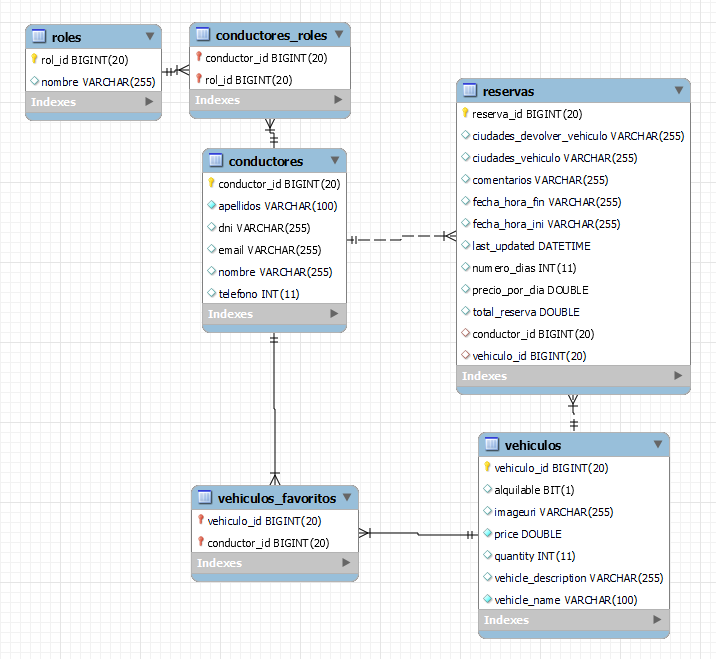
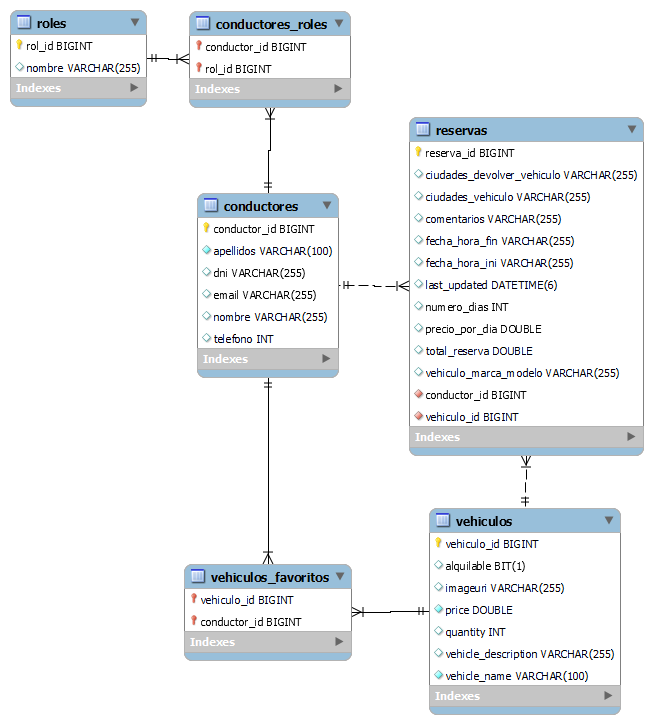
add   50 primeros vehiculos +esquema

diff --git a/backend/ms-mysql-eFast/src/main/java/com/efast/backend/BackendApplication.java b/backend/ms-mysql-eFast/src/main/java/com/efast/backend/BackendApplication.java
@@ -1,5 +1,6 @@
 package com.efast.backend;
 
+import java.util.ArrayList;
 import java.util.List;
 
 import org.springframework.beans.factory.annotation.Autowired;
@@ -26,7 +27,7 @@ public class BackendApplication {
 	
 	static final String URL = "URL del coche"; 
 	
-	List<String> CAR_NAMES  = List.of("Ford Mustang Mach-E", "Vespa Elettrica", "Hyundai Ioniq 6", "Kia Soul EV", "Ford Mustang Mach-E");
+	List<String> CAR_NAMES  = new ArrayList<>();//List.of("Ford Mustang Mach-E", "Vespa Elettrica", "Hyundai Ioniq 6", "Kia Soul EV", "Ford Mustang Mach-E");
 	
 	public static void main(String[] args) {
 		SpringApplication.run(BackendApplication.class, args);
@@ -36,8 +37,9 @@ public class BackendApplication {
 	 @PostConstruct
     public void addVehicles(){
 		log.info("entraa addVehicles");
+		initializeVehicles();
 		// insertar 4 vehiculos de prueba
-		for (int i = 0; i < 5; i++) {
+		for (int i = 0; i < CAR_NAMES.size(); i++) {
 			Vehiculo vehiculo = new Vehiculo();
 		//vehiculo.setVehicleId(0L);  //se añade automaticamente	
 			vehiculo.setVehiculo_id(i+1L); // asegurar siempre =orden
@@ -53,4 +55,59 @@ public class BackendApplication {
 		
 		}
     }
+
+	private void initializeVehicles() {
+		// 50 primeros vehiculos
+		 CAR_NAMES.add("Ford Mustang Mach-E");
+	        CAR_NAMES.add("Vespa Elettrica");
+	        CAR_NAMES.add("Hyundai Ioniq 6");
+	        CAR_NAMES.add("Kia Soul EV");
+	        CAR_NAMES.add("Ford Mustang Mach-E");
+	        
+	        CAR_NAMES.add("Honda PCX Electric");
+	        CAR_NAMES.add("Energica Eva Ribelle");
+	        CAR_NAMES.add("BMW CE 04");
+	        CAR_NAMES.add("Vespa Elettrica");
+	        CAR_NAMES.add("BMW i3");
+	        CAR_NAMES.add("Audi e-tron GT");
+	        CAR_NAMES.add("Energica EsseEsse9");
+	        CAR_NAMES.add("Audi e-tron");
+	        CAR_NAMES.add("Ford Mustang Mach-E");
+	        CAR_NAMES.add("KTM Freeride E-XC");
+	        CAR_NAMES.add("Nissan Leaf");
+	        CAR_NAMES.add("Ducati Super Soco TC");
+	        CAR_NAMES.add("Zero FX");
+	        CAR_NAMES.add("Honda PCX Electric");
+	        CAR_NAMES.add("Volkswagen ID. Buzz");
+	        CAR_NAMES.add("Chevrolet Bolt EV");
+	        CAR_NAMES.add("Harley-Davidson LiveWire");
+	        CAR_NAMES.add("Chevrolet");
+	        CAR_NAMES.add("Audi");
+	        CAR_NAMES.add("Zero SR/S");
+	        CAR_NAMES.add("Harley-Davidson LiveWire");
+	        CAR_NAMES.add("Yamaha EC-03");
+	        CAR_NAMES.add("Yamaha EC-03");
+	        CAR_NAMES.add("Nissan Ariya");
+	        CAR_NAMES.add("Vespa Elettrica");
+	        CAR_NAMES.add("Ducati Super Soco TC");
+	        CAR_NAMES.add("Harley-Davidson LiveWire");
+	        CAR_NAMES.add("BMW iX");
+	        CAR_NAMES.add("KTM Freeride E-XC");
+	        CAR_NAMES.add("Ducati Super Soco TC");
+	        CAR_NAMES.add("Nissan Ariya");
+	        CAR_NAMES.add("Lightning LS-218");
+	        CAR_NAMES.add("Zero FX");
+	        CAR_NAMES.add("Zero SR/S");
+	        CAR_NAMES.add("Yamaha EC-03");
+	        CAR_NAMES.add("Harley-Davidson LiveWire");
+	        CAR_NAMES.add("Harley-Davidson LiveWire");
+	        CAR_NAMES.add("Ducati Super Soco TC");
+	        CAR_NAMES.add("Honda PCX Electric");
+	        CAR_NAMES.add("Vespa Elettrica");
+	        CAR_NAMES.add("Audi e-tron GT");
+	        CAR_NAMES.add("Energica EsseEsse9");
+	        CAR_NAMES.add("Vespa Elettrica");
+	        CAR_NAMES.add("Energica");
+	        CAR_NAMES.add("Yamaha EC-03");
+	}
 }

diff --git a/backend/ms-mysql-eFast/src/main/java/com/efast/backend/model/Reserva.java b/backend/ms-mysql-eFast/src/main/java/com/efast/backend/model/Reserva.java
@@ -48,7 +48,7 @@ public class Reserva implements Serializable {
 //	    private Vehiculo vehicle;
 	 	@ManyToOne(fetch = FetchType.LAZY)
 	 	@GeneratedValue(strategy = GenerationType.IDENTITY)
-	    @JoinColumn(name = "vehiculo_id" /*, nullable = false*/)
+	    @JoinColumn(name = "vehiculo_id" , nullable = false)
 	 	//@JsonIgnore 	 	// necesario para GET
 	 	@JsonManagedReference	// debe ser serializada.
 	 	private Vehiculo  vehiculoId;  //Set<Vehiculo>. necesario set para poder usarlo luego al hacer .save(entidad)
